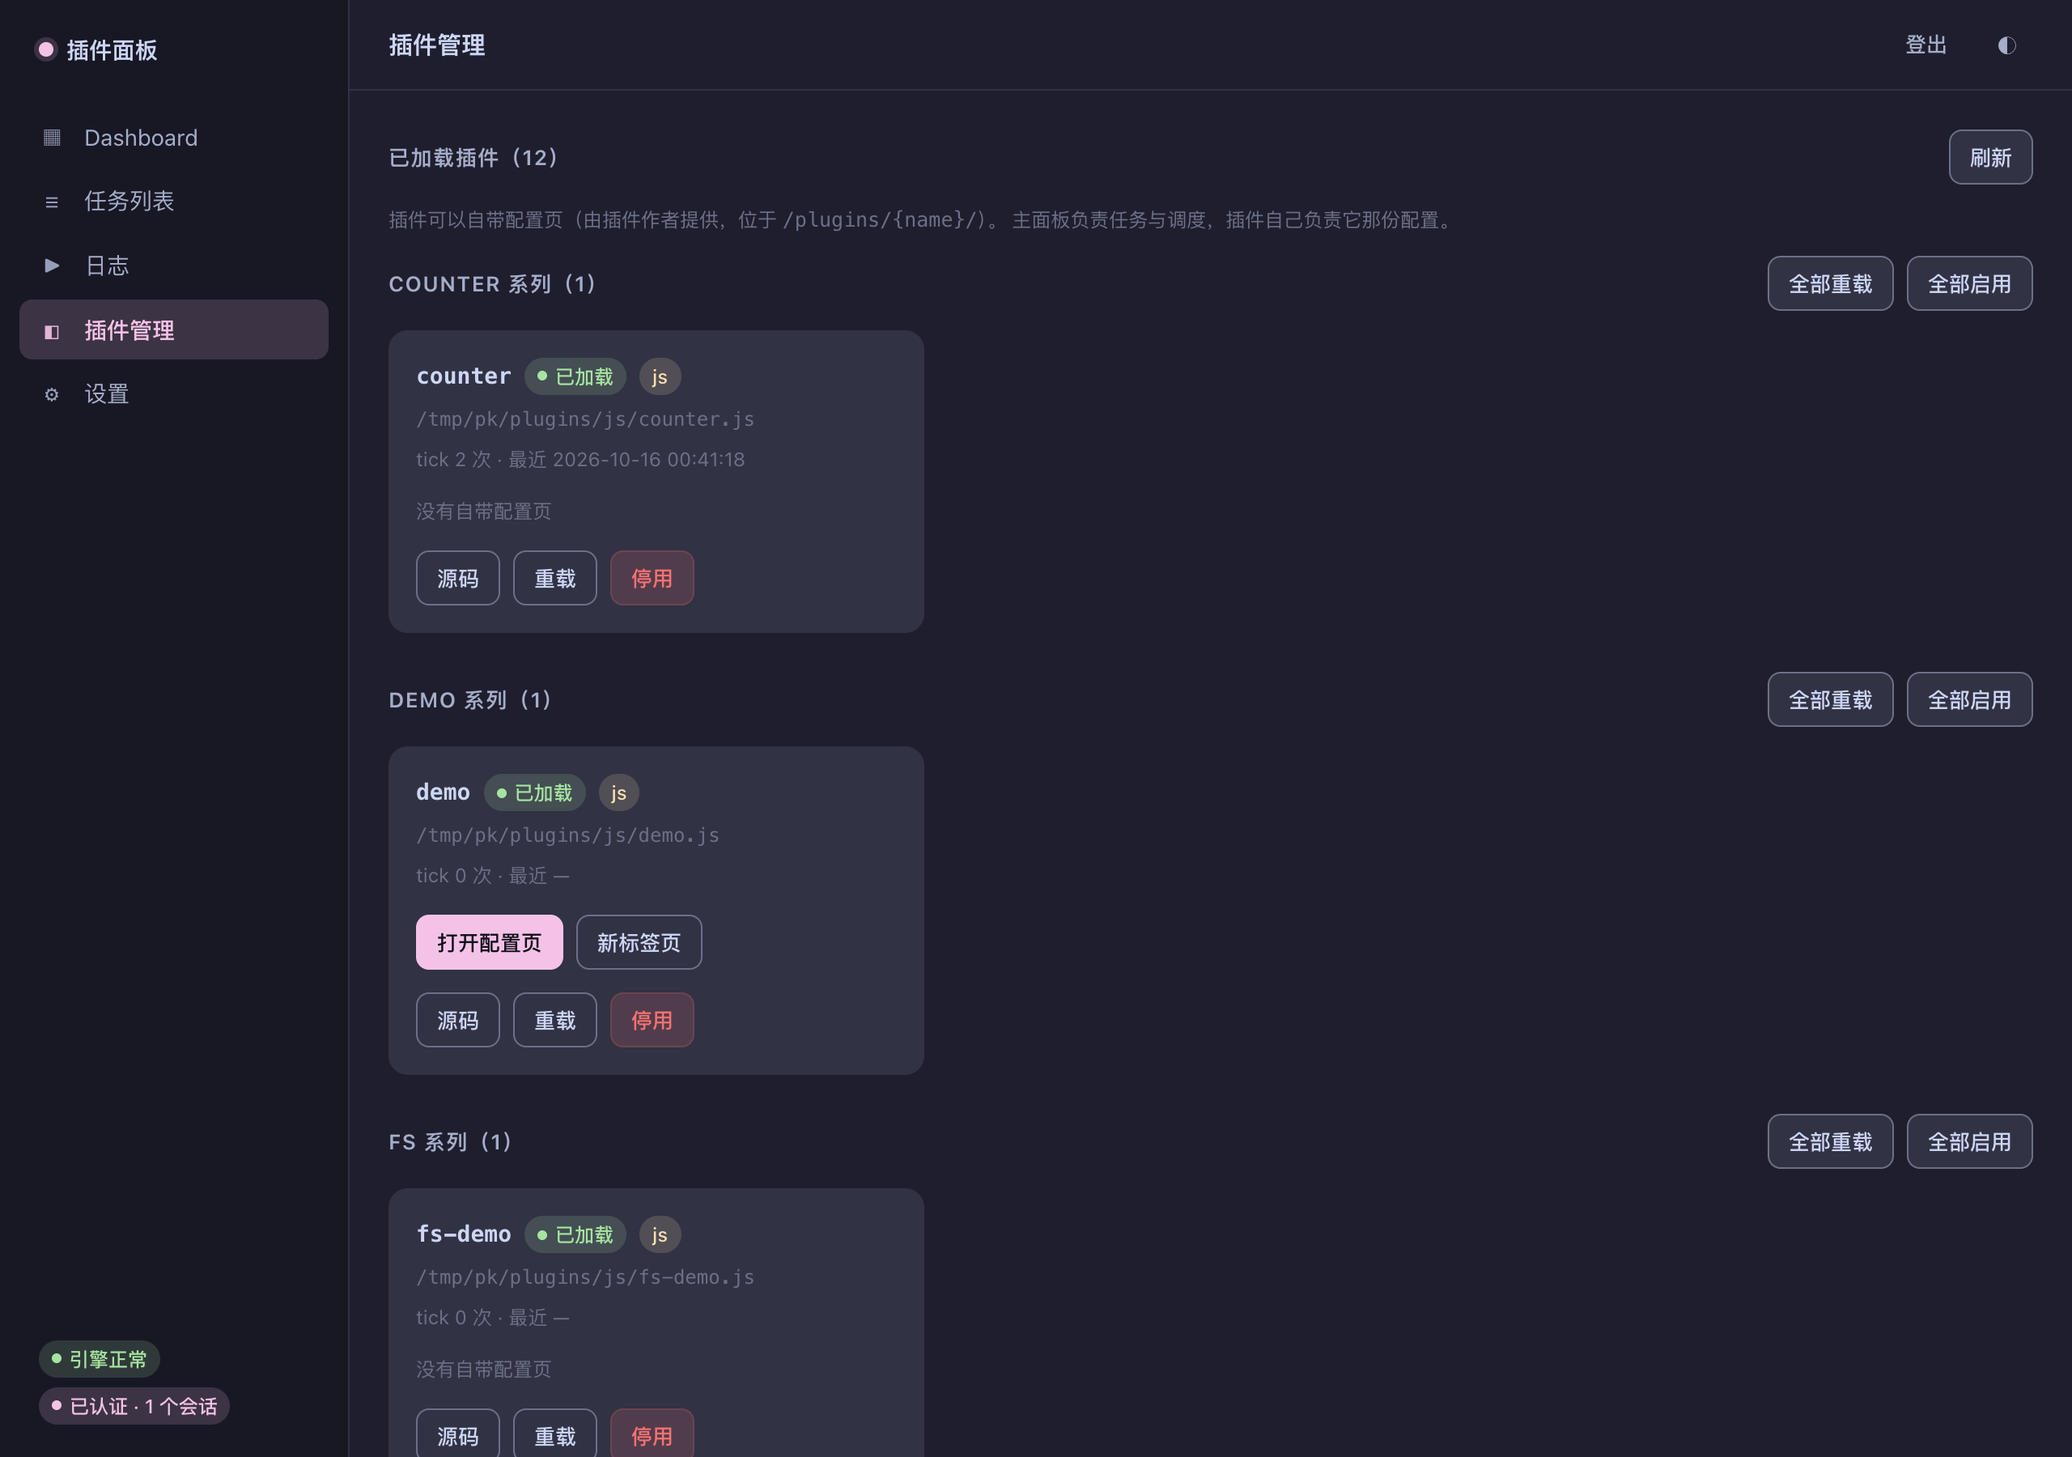
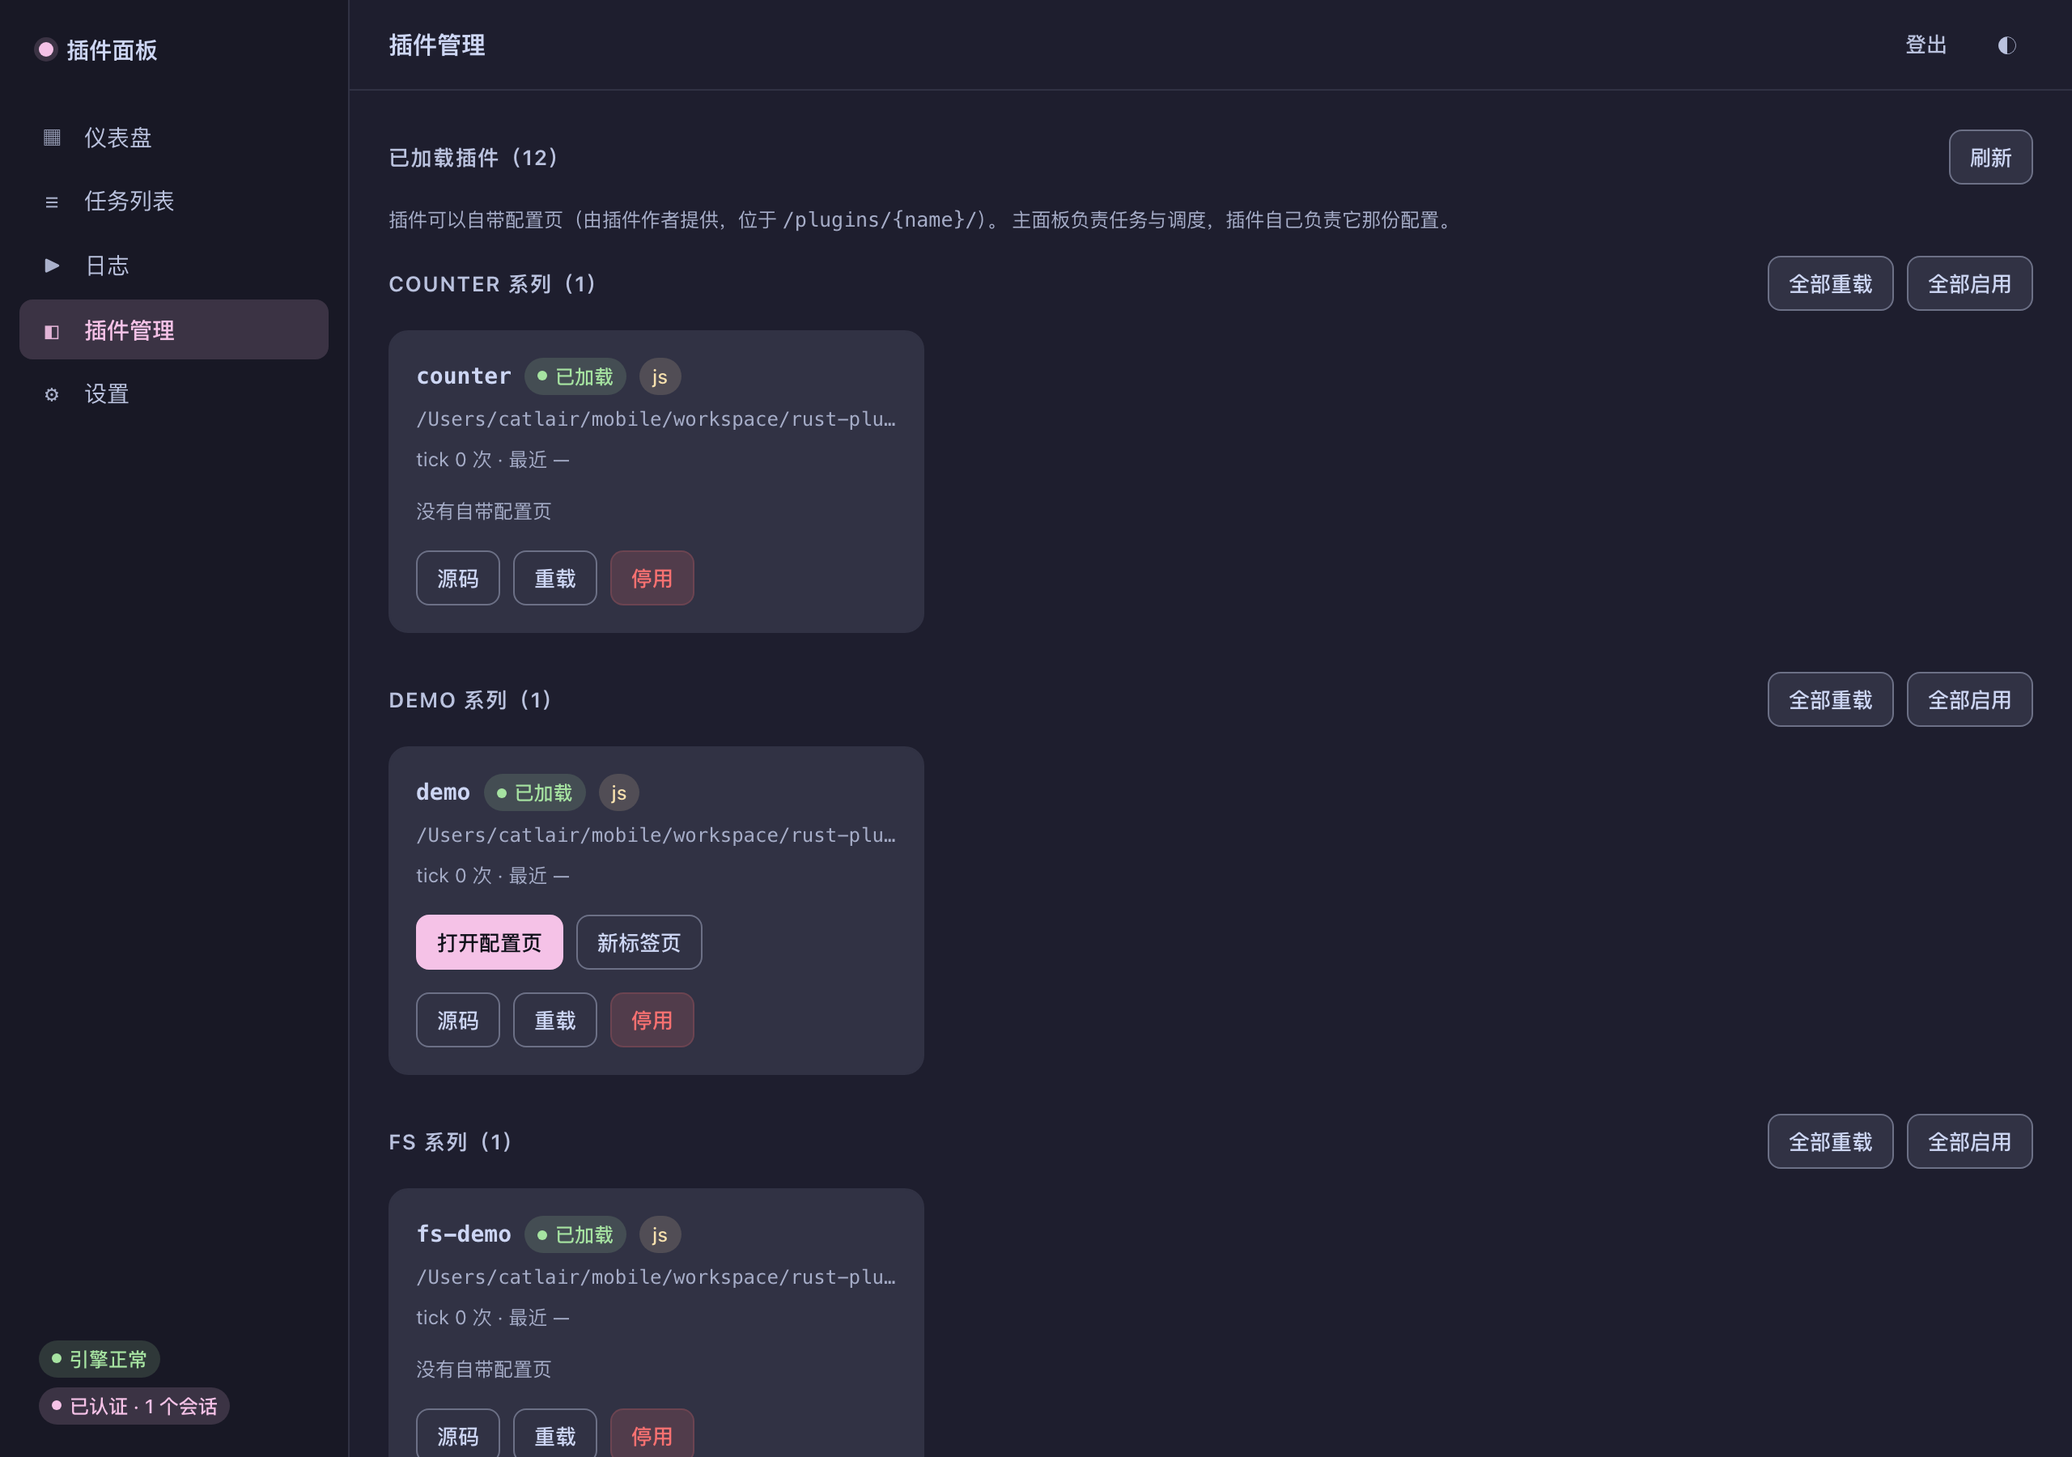
暗色下"次要字"太淡：重定文字三档 + 修掉几处原样输出的内部值
用户原话：

> 暗色模式下字色太浅了，好好设计一下，要有美感

# 病根：第三档文字用的是"装饰色"

暗色的 `--text-mute` 是 Catppuccin Mocha 的 **overlay0 #6c7086** —— 官方口径里
那一档是"很少用、比如禁用态"，而它在这个项目里当的是**表头 / 卡片小字 / 统计标签**：

    在 --bg 上        3.36:1
    在卡片 --surface  2.57:1      ← 它待得最多的地方
    在悬停底上         1.87:1      （WCAG AA 正文要 4.5:1）

亮色更糟：`--text-mute` 是 Latte 的 overlay0 #9ca0b0，在底上只有 **2.30:1**。
（顺带一提，`--border-control` 那条注释早就写过"overlay 那几档过不了 3:1" ——
 同一个坑，当文字比当边框更糟：边框只要 3:1，文字要 4.5:1。）

# 改法：整体上移一档，取值全部用官方色，不自己调色

暗色（Mocha）            --bg   --surface  --surface-2
  --text      #cdd6f4   11.34    8.69       6.31
  --text-dim  #bac2de    9.26    7.10       5.15     ← 原来是 subtext0
  --text-mute #a6adc8    7.37    5.65       4.10     ← 原来是 overlay0

亮色（Latte）这边**没有现成的第三档能过 AA**（overlay2 #7c7f93 是 3.50:1、
subtext0 #6c6f85 是 4.37:1），所以第三档取 subtext0 与 subtext1 之间的
#64687e（4.86:1）—— 内插值，仍在 Latte 的冷灰区间里，不引入新色相。

# 顺带修掉的三处"原样输出"

都是同一类毛病：内部值直接印在界面上，看起来就像没设计过。

1. **统计标签混三种语言**：`UPTIME` / `TICKS` / `QuickJS 堆` 夹在
   `插件` / `预算打断` 里，而 `.stat-label` 还挂着 `text-transform: uppercase`
   —— 那一套排版是给英文小标签用的，对中文毫无作用，只剩"11px + 松字距 + 很淡"。
   → 标签一律中文（运行时长 / 循环次数 / JS 内存…），字号 11→12px，去掉 uppercase，
   字距 0.06em→0.02em。`.table-wrap th` 同一套口径（表头是列的名字，更该一眼扫到）。
2. **侧边栏与标题写着 `Dashboard`**，并排的却是「任务列表 / 日志 / 插件管理 / 设置」
   → 「仪表盘」。
3. **状态列直接吐后端原值**（表里写 `running`），而任务列表页同一列写「运行中」
   → 把那份映射从 `views/task-list.js` 抽成 `web/js/status.js`，两处共用一份；
   认不出来的状态**原样显示**（宁可看到陌生英文，也不要看到「未知」而不知道是哪个）。
[…]

diff --git a/web/js/app.js b/web/js/app.js
@@ -19,6 +19,8 @@ import * as pluginSource from './views/plugin-source.js';
 import * as logView from './views/log-view.js';
 import { getState, logout } from './api.js';
 import { lineNode, openLogStream, makeRing } from './logstream.js';
+// 状态的中文与时刻的显示格式：与任务列表页共用一份（见 status.js 的文件头）
+import { statusBadge, minuteOf } from './status.js';
 
 const $ = (sel) => document.querySelector(sel);
 
@@ -191,14 +193,19 @@ async function renderDashboard(root) {
         <span class="badge ${healthy ? 'success' : 'failed'}">${healthy ? '健康' : '停摆'}</span>
       </div>
       <div class="grid stats">
-        ${stat('Uptime', Math.floor((res.uptime_secs || 0) / 60) + ' 分')}
-        ${stat('Ticks', res.ticks ?? '—')}
+        ${/*
+          标签一律用中文。原来这里混着 UPTIME / TICKS / QuickJS 堆 —— 一格里三种语言，
+          而且大写那套排版对中文毫无作用（.stat-label 原来还挂着 uppercase）。
+          `Ticks` 是引擎循环跑了几轮，`QuickJS 堆` 里的 QuickJS 是实现名（用户不需要知道）。
+        */ ''}
+        ${stat('运行时长', Math.floor((res.uptime_secs || 0) / 60) + ' 分')}
+        ${stat('循环次数', res.ticks ?? '—')}
         ${stat('插件', plugins.length)}
         ${stat('任务', jobs.length)}
         ${stat('心跳', (engine.beat_ago_ms ?? '—') + ' ms')}
         ${stat('预算打断', engine.interrupts ?? '—')}
         ${stat('单次预算', (engine.budget_ms ?? '—') + ' ms')}
-        ${stat('QuickJS 堆', Math.round((engine.js_memory_bytes || 0) / 1024) + ' KB')}
+        ${stat('JS 内存', Math.round((engine.js_memory_bytes || 0) / 1024) + ' KB')}
       </div>
       ${
         healthy
@@ -219,19 +226,20 @@ async function renderDashboard(root) {
               jobs.length
                 ? jobs
                     .slice(0, 12)
-                    .map(
-                      (j) => `<tr>
+                    .map((j) => {
+                      // 状态原来是把后端的原值直接印出来的（表里写 `running`），
+                      // 而任务列表页同一列写「运行中」—— 现在共用 ../status.js 那一份。
+                      const st = statusBadge(j.status);
+                      return `<tr>
                   <td class="mono dim">${j.plugin}</td>
                   <td class="mono">${j.name}</td>
                   <td class="mono dim">${j.schedule}</td>
                   <td class="mono dim">${j.source === 'panel' ? '面板' : '插件代码'}</td>
-                  <td><span class="badge ${
-                    j.status === 'running' ? 'running' : j.status === 'paused' ? 'idle' : 'failed'
-                  }">${j.status}</span></td>
+                  <td><span class="badge ${st.cls}">${st.text}</span></td>
                   <td class="num">${j.runs}</td>
-                  <td class="mono dim">${j.next_run || '—'}</td>
-                </tr>`,
-                    )
+                  <td class="mono dim">${minuteOf(j.next_run)}</td>
+                </tr>`;
+                    })
                     .join('')
                 : '<tr><td colspan="7" class="empty">还没有任务</td></tr>'
             }
@@ -357,7 +365,10 @@ function renderSettings(root) {
 // ---------------------------------------------------------------- 路由
 
 const TITLES = {
-  dashboard: 'Dashboard',
+  // ⚠ 这一格原来是 'Dashboard'（英文）—— 其余四格都是中文，侧边栏里并排写着
+  // 「Dashboard / 任务列表 / 日志 / 插件管理 / 设置」。同一份界面里混两种语言
+  // 本身就是"没设计过"的样子（同一个毛病还有统计卡的 UPTIME / TICKS，第二十八轮一并改了）。
+  dashboard: '仪表盘',
   tasks: '任务列表',
   logs: '日志',
   plugins: '插件管理',

diff --git a/web/css/theme.css b/web/css/theme.css
@@ -25,9 +25,26 @@
      取 overlay0 #6c7086 = 3.36:1，是能过的最轻的一档。 */
   --border-control: #6c7086;
 
+  /* ---- 文字三档（第二十八轮重定）----
+     **三档都要能读**。原来 dim=#a6adc8、mute=#6c7086，而 #6c7086 是 Mocha 的
+     overlay0 —— 官方口径里那一档是"很少用、比如禁用态"，拿来当表头 / 卡片小字 /
+     统计标签的颜色就太淡了：在 --bg 上 3.36:1、在卡片 --surface 上 2.57:1、
+     在悬停底 --surface-2 上 1.87:1（WCAG AA 正文要 4.5:1）。
+     表现就是"字糊成一片"—— 这种问题肉眼看不出是哪一档，算一下才知道。
+
+     现在整体上移一档，取值全是 Mocha 官方色，不自己调色：
+
+       档位    值          在 --bg   在 --surface   在 --surface-2
+       text   #cdd6f4     11.34     9.02           6.31
+       dim    #bac2de      9.26     7.10           5.15
+       mute   #a6adc8      7.37     5.65           4.10
+
+     ⚠ 结论：**overlay0 / overlay1 不许当文字色**（官方口径里它们是装饰色）。
+       非文字的边界仍走 --border-control（那一档按 WCAG 1.4.11 只要 3:1）。
+       scripts/test-web-assets.mjs ⑥b 现在会按"文字档 × 各个底"逐对算，改回去就红。 */
   --text: #cdd6f4;
-  --text-dim: #a6adc8;
-  --text-mute: #6c7086;
+  --text-dim: #bac2de;
+  --text-mute: #a6adc8;
 
   /* ---- 粉色系（第二十七轮）----
      accent 从 Mocha 的蓝 #89b4fa 换成官方粉 #f5c2e7（对比度 10.74:1，比蓝还好）。
@@ -64,9 +81,21 @@
      得用 overlay2 #7c7f93 = 3.49:1 —— 亮色这边能过的最轻的一档比暗色更靠后。 */
   --border-control: #7c7f93;
 
+  /* 文字三档。亮色这边**没有现成的第三档能过 AA**：
+     Latte 的 overlay2 #7c7f93 是 3.50:1、subtext0 #6c6f85 是 4.37:1 —— 都不到 4.5。
+     （注意这与上面 --border-control 是同一个坑：overlay 那几档是装饰色，
+       拿来当文字比当边框更糟 —— 边框只要 3:1，文字要 4.5:1。）
+
+     所以第三档取 subtext0 与 subtext1 之间的一档 #64687e（4.86:1，实测）。
+     它是内插值，仍在 Latte 的冷灰区间里，不引入新色相：
+
+       档位    值          在 --bg   在 --surface(#fff)
+       text   #4c4f69      7.06     8.42
+       dim    #5c5f77      5.53     6.25
+       mute   #64687e      4.86     5.49 */
   --text: #4c4f69;
-  --text-dim: #6c6f85;
-  --text-mute: #9ca0b0;
+  --text-dim: #5c5f77;
+  --text-mute: #64687e;
 
   /* ---- 粉色系（第二十七轮）----
      **不能**直接用 Latte 官方的粉 #ea76cb：它在这个底色上只有 2.34:1，

diff --git a/web/js/status.js b/web/js/status.js
@@ -1,0 +1,43 @@
+/**
+ * 任务状态 → 徽章样式 + **给人看的字**，以及时刻的显示格式。
+ *
+ * # 为什么单独一个模块
+ *
+ * 这份映射原来长在 `views/task-list.js` 里（私有常量），而仪表盘的「任务概览」
+ * 也有一列状态 —— 它当时是**直接把后端原值吐出来**的，于是同一个界面里
+ * 列表页写「运行中」、仪表盘写 `running`。一处写中文、一处露英文，看起来
+ * 就像"没设计过"；两处各存一份映射迟早还会漂，所以抽出来共用。
+ *
+ * # 取值
+ *
+ * 后端保证的就是下面这几个（见 `src/web.rs` 的 `job_rows`）。
+ * 认不出来的状态**原样显示**，不猜也不吞 —— 新增一个状态时，
+ * 宁可看到一个陌生的英文词，也不要看到「未知」而不知道到底是哪个。
+ */
+
+export const STATUS_MAP = {
+  running: { cls: 'running', text: '运行中' },
+  paused: { cls: 'idle', text: '已暂停' },
+  tripped: { cls: 'failed', text: '已熔断' },
+  error: { cls: 'failed', text: '执行出错' },
+  idle: { cls: 'idle', text: '待触发' },
+  // 面板删掉的（墓碑）：插件代码仍然声明它，所以它还在库里但不调度
+  deleted: { cls: 'idle', text: '已删除' },
+};
+
+/** 状态 → `{cls, text}`。认不出来的给中性样式 + 原值。 */
+export function statusBadge(status) {
+  return STATUS_MAP[status] || { cls: 'idle', text: String(status ?? '—') };
+}
+
+/**
+ * 时刻只显示到**分钟**。
+ *
+ * 后端给的是 `2026-10-17 08:00:00.000`，而调度最小粒度就是分钟 ——
+ * 秒和毫秒挂在表格里只是噪声（`08:00:00.000` 比 `08:00` 难扫得多）。
+ * ⚠ 只截**显示**：API 那个字段原样不动（`scripts/smoke.py` 拿它做断言）。
+ */
+export function minuteOf(ts) {
+  if (!ts) return '—';
+  return String(ts).replace('T', ' ').slice(0, 16);
+}

diff --git a/web/css/components.css b/web/css/components.css
@@ -294,11 +294,16 @@
   padding: var(--sp-3) var(--sp-4);
 }
 
+/* 统计卡的标签（「运行时长」「心跳次数」…）。
+   ⚠ 原来是 11px + uppercase + 0.06em 字距。那一套是**给英文小标签**用的排版：
+   uppercase 对中文毫无作用，只剩"小一号 + 松字距"，11px 的中文再叠上当时那一档
+   很淡的灰，整行就是糊的（用户原话："字色太浅了"）。
+   现在：12px（中文的可读下限）、去掉 uppercase、字距收到 0.02em。
+   配套改动：`web/js/app.js` 里那几个英文标签也换成了中文（混着写本身就不整齐）。 */
 .stat-label {
-  font-size: 11px;
+  font-size: 12px;
   color: var(--text-mute);
-  text-transform: uppercase;
-  letter-spacing: 0.06em;
+  letter-spacing: 0.02em;
 }
 
 .stat-value {
@@ -509,10 +514,12 @@
 
 .table-wrap th {
   padding: 9px var(--sp-3);
-  font-size: 11px;
+  /* 表头：与 .stat-label 同一套口径（12px、不 uppercase、字距 0.02em）。
+     表头是**列的名字**，比正文更需要一眼扫到 —— 原来是 11px + 大写 + 很淡的灰，
+     中文表头（插件/任务/表达式/来源/状态）读起来最吃力。 */
+  font-size: 12px;
   color: var(--text-mute);
-  text-transform: uppercase;
-  letter-spacing: 0.06em;
+  letter-spacing: 0.02em;
   border-bottom: 1px solid var(--border-soft);
   white-space: nowrap;
 }

diff --git a/web/js/views/task-list.js b/web/js/views/task-list.js
@@ -21,17 +21,8 @@ import {
 } from '../api.js';
 import { TASKS } from '../mock.js';
 import { armConfirm, settleArmed, paintArmed, RISK } from '../confirm.js';
-
-/** 后端 status → 徽章样式。后端只保证这几个取值（见 src/web.rs 的 job_rows）。 */
-const STATUS_MAP = {
-  running: { cls: 'running', text: '运行中' },
-  paused: { cls: 'idle', text: '已暂停' },
-  tripped: { cls: 'failed', text: '已熔断' },
-  error: { cls: 'failed', text: '执行出错' },
-  idle: { cls: 'idle', text: '待触发' },
-  // 面板删掉的（墓碑）：插件代码仍然声明它，所以它还在库里但不调度
-  deleted: { cls: 'idle', text: '已删除' },
-};
+// 状态的中文与徽章样式在 ../status.js —— 仪表盘也要用同一份（原来它露的是英文原值）
+import { statusBadge } from '../status.js';
 
 function esc(s) {
   return String(s ?? '').replace(/[&<>"']/g, (c) =>
@@ -40,7 +31,7 @@ function esc(s) {
 }
 
 function badge(status, trips) {
-  const m = STATUS_MAP[status] || STATUS_MAP.idle;
+  const m = statusBadge(status);
   const suffix = status === 'tripped' && trips ? ` ×${trips}` : '';
   return `<span class="badge ${m.cls}">${m.text}${suffix}</span>`;
 }

diff --git a/web/index.html b/web/index.html
@@ -34,7 +34,7 @@
 
       <nav class="nav" id="nav">
         <a class="nav-item" href="#/dashboard" data-view="dashboard">
-          <span class="nav-icon" aria-hidden="true">▦</span><span>Dashboard</span>
+          <span class="nav-icon" aria-hidden="true">▦</span><span>仪表盘</span>
         </a>
         <a class="nav-item" href="#/tasks" data-view="tasks">
           <span class="nav-icon" aria-hidden="true">≡</span><span>任务列表</span>
@@ -68,7 +68,7 @@
     <div class="main">
       <header class="topbar">
         <button id="menu-btn" class="icon-btn only-mobile" aria-label="打开导航" aria-expanded="false">☰</button>
-        <h1 id="view-title" class="topbar-title">Dashboard</h1>
+        <h1 id="view-title" class="topbar-title">仪表盘</h1>
         <div class="topbar-right">
           <!-- 只在开了鉴权时显示（app.js 按 /api/state 的 auth.enabled 决定） -->
           <button id="logout-btn" class="btn ghost" hidden>登出</button>

diff --git a/src/assets.rs b/src/assets.rs
@@ -174,6 +174,9 @@ pub const ASSETS: &[Asset] = &[
     asset!("js/editor.js"),
     asset!("js/confirm.js"),
     asset!("js/mock.js"),
+    // 任务状态 → 中文 + 徽章样式，以及时刻的显示格式：列表页与仪表盘共用一份
+    // （第二十八轮从 task-list.js 里抽出来 —— 抽之前仪表盘露的是后端的英文原值）
+    asset!("js/status.js"),
     asset!("js/views/task-list.js"),
     asset!("js/views/task-editor.js"),
     asset!("js/views/log-view.js"),
